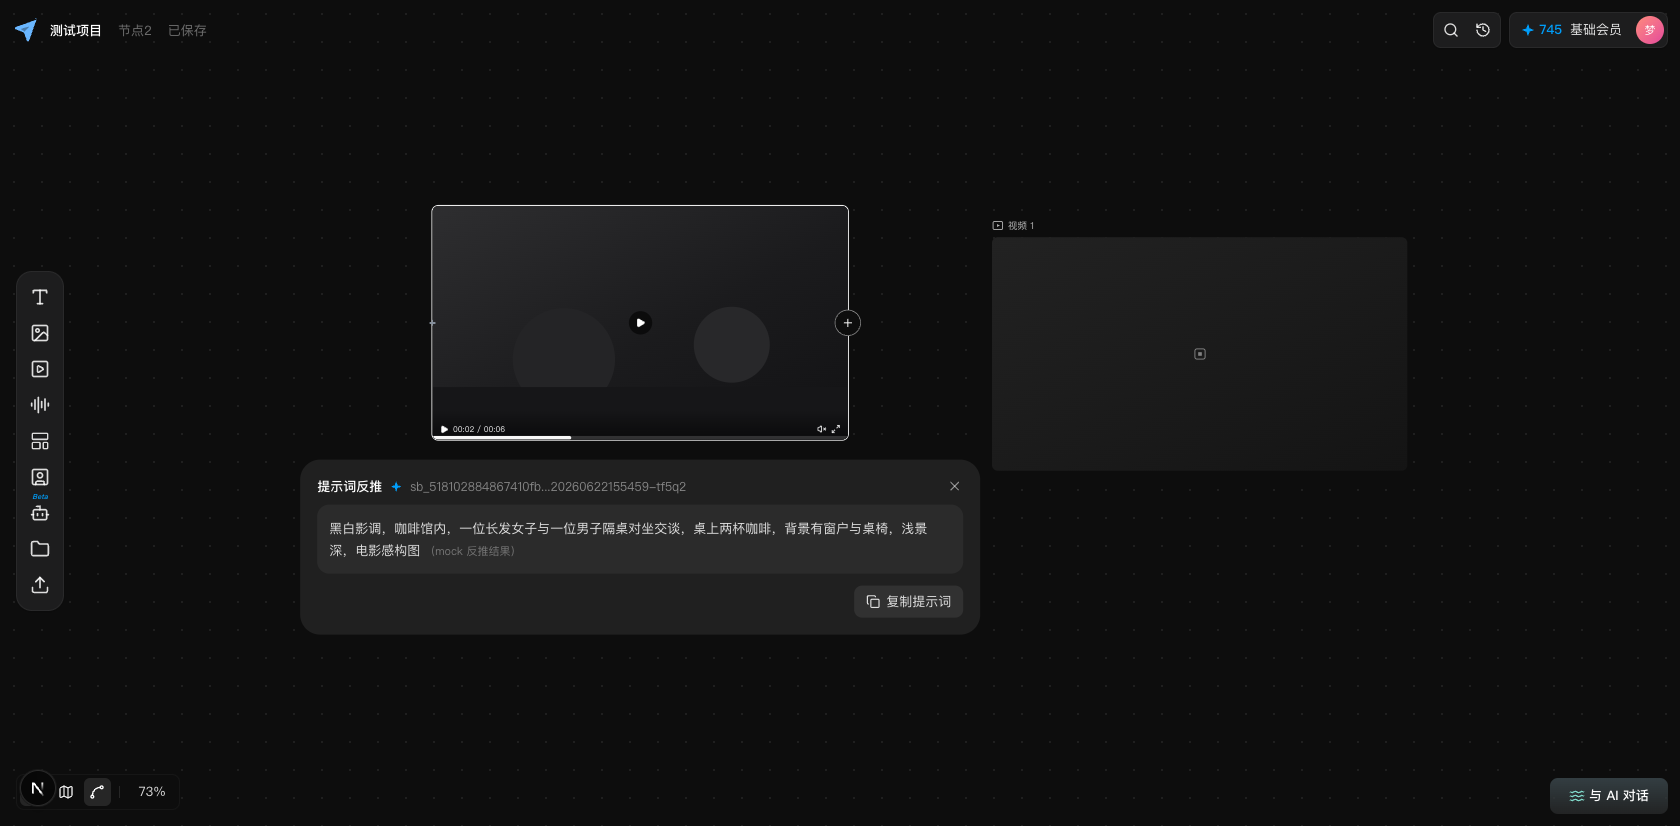
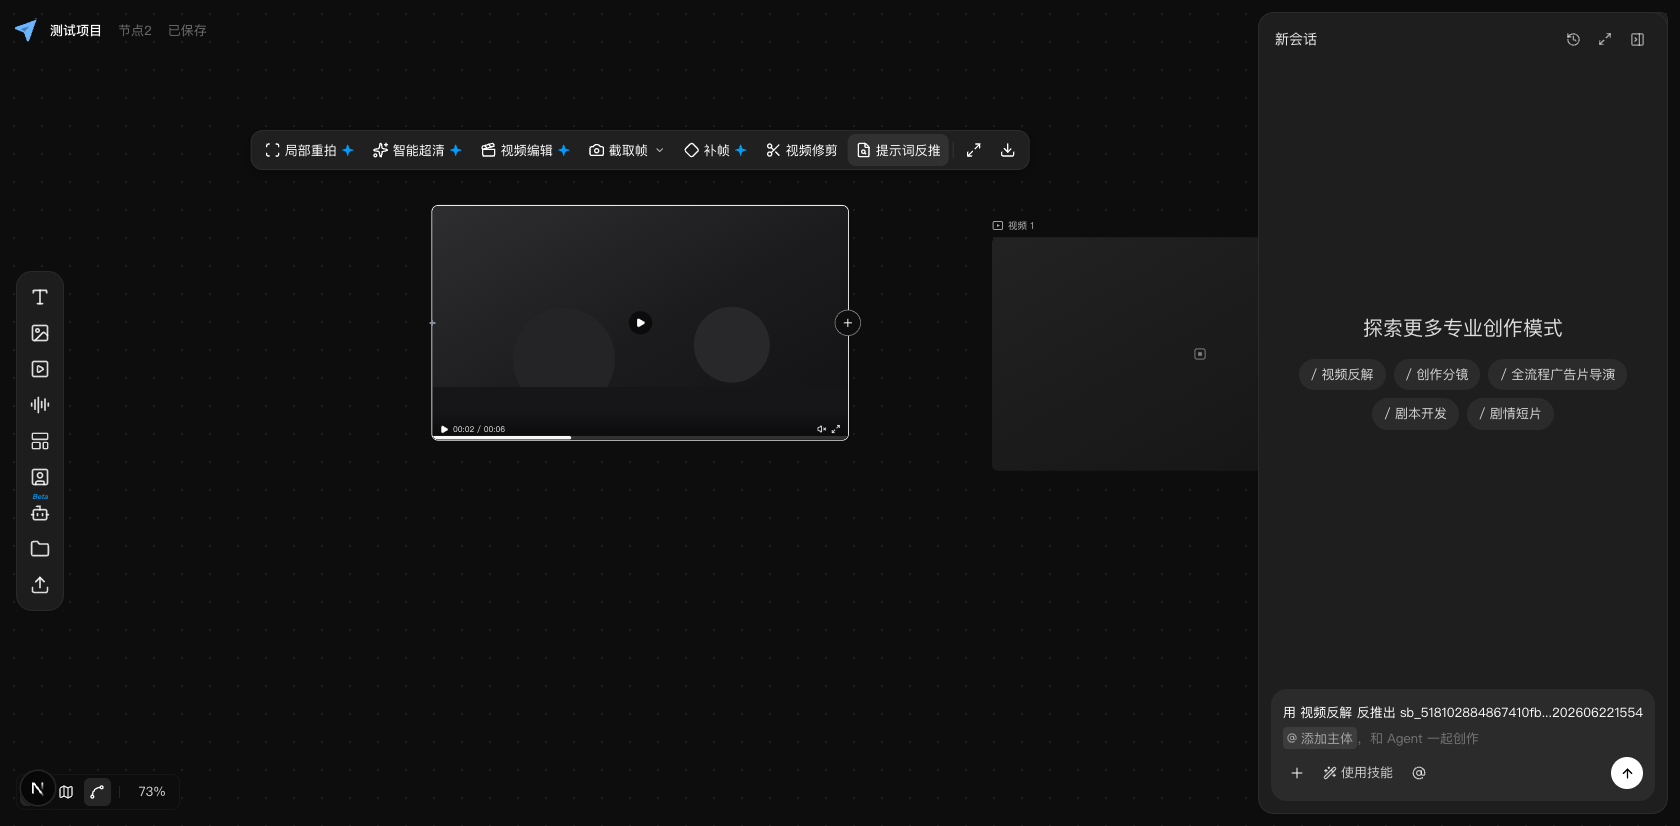
feat(jimeng): batch 216 — 提示词反推 now opens the AI drawer with a prefilled 视频反解 prompt
Fresh sampling (216-source-infer.png) shows the source behavior evolved:
no mock panel — the node zooms/pauses and the right AI drawer opens with
「用 视频反解 反推出 {title} 的提示词，并创建文本节点，方便我拉片复刻」
prefilled. Store gains aiDrawerPrefill/openAiDrawer; the drawer remounts
keyed by prefill; the video node wires 提示词反推 to enterInfer +
openAiDrawer; the old JimengInferPanel render is removed (component kept);
the workspace Escape branch closes the drawer. batch 8 rewritten to the
new contract; 8/12/30/40/97/101 regression PASS; npm run check green.

diff --git a/src/components/jimeng/nodes/JimengVideoNode.tsx b/src/components/jimeng/nodes/JimengVideoNode.tsx
@@ -9,7 +9,6 @@ import type { JimengVideoNodeData } from "@/types/jimeng";
 import { JimengNodeToolbar } from "@/components/jimeng/JimengNodeToolbar";
 import { JimengGenPanel } from "@/components/jimeng/JimengGenPanel";
 import { JimengInsertMenu } from "@/components/jimeng/JimengInsertMenu";
-import { JimengInferPanel } from "@/components/jimeng/JimengInferPanel";
 import { JimengFramePicker } from "@/components/jimeng/JimengFramePicker";
 import { JimengRepaintPanel } from "@/components/jimeng/JimengRepaintPanel";
 import { JimengTrimPanel } from "@/components/jimeng/JimengTrimPanel";
@@ -52,7 +51,7 @@ export function JimengVideoNode({ id, data, selected }: NodeProps) {
   const exitEdit = useJimengStore((s) => s.exitEdit);
   const inferNodeId = useJimengStore((s) => s.inferNodeId);
   const enterInfer = useJimengStore((s) => s.enterInfer);
-  const exitInfer = useJimengStore((s) => s.exitInfer);
+  const openAiDrawer = useJimengStore((s) => s.openAiDrawer);
   const framePickerNodeId = useJimengStore((s) => s.framePickerNodeId);
   const framePickerMode = useJimengStore((s) => s.framePickerMode);
   const enterFramePicker = useJimengStore((s) => s.enterFramePicker);
@@ -79,7 +78,6 @@ export function JimengVideoNode({ id, data, selected }: NodeProps) {
     s.nodes.find((n) => n.id === id)?.groupId,
   );
   const tickPlay = useJimengStore((s) => s.tickPlay);
-  const updateNodeData = useJimengStore((s) => s.updateNodeData);
   const pushToast = useJimengStore((s) => s.pushToast);
   const applyTrim = useJimengStore((s) => s.applyTrim);
   const previewNodeId = useJimengStore((s) => s.previewNodeId);
@@ -122,8 +120,6 @@ export function JimengVideoNode({ id, data, selected }: NodeProps) {
         />
       ) : d.hasMedia && editMode ? (
         <JimengVideoEditMode onSubmit={() => exitEdit()} />
-      ) : d.hasMedia && inferMode ? (
-        <JimengInferPanel visible data={d} onClose={() => exitInfer()} />
       ) : d.hasMedia && pickerMode ? (
         <JimengFramePicker
           visible
@@ -151,7 +147,14 @@ export function JimengVideoNode({ id, data, selected }: NodeProps) {
           onAction={(label) => {
             if (label === "局部重拍") enterRepaint(id);
             if (label === "视频编辑") enterEdit(id);
-            if (label === "提示词反推") enterInfer(id);
+            // 批 216 SOURCE_FACT: 提示词反推 → 节点放大暂停 + 打开 AI 抽屉
+            // 并预填 视频反解 提示词 (原 mock 反推面板已被该流程取代)
+            if (label === "提示词反推") {
+              enterInfer(id);
+              openAiDrawer(
+                `用 视频反解 反推出 ${d.title} 的提示词，并创建文本节点，方便我拉片复刻`,
+              );
+            }
             if (label === "视频修剪") enterTrim(id);
             if (label === "智能超清") startTask(id, "upscale");
             if (label === "补帧") startTask(id, "interpolate");

diff --git a/src/components/jimeng/JimengWorkspace.tsx b/src/components/jimeng/JimengWorkspace.tsx
@@ -62,6 +62,8 @@ function JimengFlow() {
   const onNodesChange = useJimengStore((s) => s.onNodesChange);
   const onEdgesChange = useJimengStore((s) => s.onEdgesChange);
   const selectNode = useJimengStore((s) => s.selectNode);
+  const aiDrawerOpen = useJimengStore((s) => s.aiDrawerOpen);
+  const setAiDrawerOpen = useJimengStore((s) => s.setAiDrawerOpen);
   const setZoomPercent = useJimengStore((s) => s.setZoomPercent);
   const { fitView, zoomIn, zoomOut, getViewport, setViewport, screenToFlowPosition } =
     useReactFlow();
@@ -242,6 +244,9 @@ function JimengFlow() {
         e.preventDefault();
         selectAll();
       } else if (e.key === "Escape") {
+        if (aiDrawerOpen) {
+          setAiDrawerOpen(false);
+        }
         selectNode(null);
         exitRepaint();
         exitEdit();
@@ -414,6 +419,7 @@ function JimengFlow() {
 export function JimengWorkspace() {
   const aiDrawerOpen = useJimengStore((s) => s.aiDrawerOpen);
   const setAiDrawerOpen = useJimengStore((s) => s.setAiDrawerOpen);
+  const aiDrawerPrefill = useJimengStore((s) => s.aiDrawerPrefill);
 
   // chrome 组件 (底栏缩放菜单) 需要 useReactFlow，整体包在 Provider 内
   return (
@@ -425,7 +431,10 @@ export function JimengWorkspace() {
         <JimengBottomDock />
         {aiDrawerOpen ? null : <JimengAiButton />}
         {aiDrawerOpen ? (
-          <JimengAiDrawer onClose={() => setAiDrawerOpen(false)} />
+          <JimengAiDrawer
+            key={aiDrawerPrefill ?? "drawer"}
+            onClose={() => setAiDrawerOpen(false)}
+          />
         ) : null}
       </div>
     </ReactFlowProvider>

diff --git a/src/store/jimengStore.ts b/src/store/jimengStore.ts
@@ -99,6 +99,9 @@ export interface JimengCanvasState {
   /** 「与 AI 对话」右侧抽屉 (Batch 12) */
   aiDrawerOpen: boolean;
   setAiDrawerOpen: (open: boolean) => void;
+  /** 批 216: 打开抽屉时的预填提示词 (提示词反推 → 视频反解流程) */
+  aiDrawerPrefill: string | null;
+  openAiDrawer: (prefill?: string) => void;
   /** 资产库模态框 (Batch 72, SOURCE_FACT 左栏 资产库 点击打开) */
   assetsOpen: boolean;
   setAssetsOpen: (open: boolean) => void;
@@ -752,7 +755,15 @@ export const useJimengStore = create<JimengCanvasState>((set) => ({
 
   aiDrawerOpen: false,
 
-  setAiDrawerOpen: (open) => set({ aiDrawerOpen: open }),
+  aiDrawerPrefill: null,
+
+  setAiDrawerOpen: (open) =>
+    set((state) => ({
+      aiDrawerOpen: open,
+      aiDrawerPrefill: open ? state.aiDrawerPrefill : null,
+    })),
+
+  openAiDrawer: (prefill) => set({ aiDrawerOpen: true, aiDrawerPrefill: prefill ?? null }),
 
   assetsOpen: false,
 

diff --git a/src/components/jimeng/JimengAiDrawer.tsx b/src/components/jimeng/JimengAiDrawer.tsx
@@ -1,6 +1,7 @@
 "use client";
 
 import { useState } from "react";
+import { useJimengStore } from "@/store/jimengStore";
 import {
   ArrowUp,
   AtSign,
@@ -30,7 +31,10 @@ const SKILL_CHIPS = [
 ];
 
 export function JimengAiDrawer({ onClose }: { onClose: () => void }) {
-  const [input, setInput] = useState("");
+  // 批 216: 预填提示词 (提示词反推 → 视频反解)；由工作区以 prefill 为
+  // key 重挂载本组件带入初始值
+  const prefill = useJimengStore((s) => s.aiDrawerPrefill);
+  const [input, setInput] = useState(prefill ?? "");
 
   return (
     <aside

diff --git a/scripts/verify-jimeng-batch8.py b/scripts/verify-jimeng-batch8.py
@@ -1,9 +1,10 @@
-"""Jimeng clone batch 8 verifier — 提示词反推 mock panel.
+"""Jimeng clone batch 8 verifier — 提示词反推 → AI drawer flow (batch 216).
 
-Contract: clicking 提示词反推 in the toolbar opens a mock panel (title,
-mock inferred prompt, copy button, close ×); close button returns to the
-toolbar state; pane click also exits. Marked CLONE_DECISION — the source
-site submits a paid inference task (BLOCKED_BY_FIXTURE).
+Contract (updated per 216-source-infer.png): clicking 提示词反推 no longer
+opens a mock panel — the node zooms in and the AI drawer opens with the
+prefilled 视频反解 prompt「用 视频反解 反推出 {video title} 的提示词，并
+创建文本节点，方便我拉片复刻」. Marked CLONE_DECISION where the drawer
+mock does not submit anything.
 """
 
 import os
@@ -34,43 +35,38 @@ def main() -> None:
         node1.click(position={"x": 200, "y": 100})
         page.wait_for_timeout(700)
         page.locator(".jimeng-node-toolbar button", has_text="提示词反推").click()
-        page.wait_for_timeout(800)
+        page.wait_for_timeout(900)
 
         state = page.evaluate(
             """() => {
-                const copyBtn = [...document.querySelectorAll('button')]
-                    .find(b => b.textContent.includes('复制提示词'));
-                const panel = copyBtn
-                    ? copyBtn.closest('div[class*="rounded"]')
-                    : null;
+                const drawer = document.querySelector('aside[aria-label="AI 对话"]');
+                const input = drawer?.querySelector('input');
                 return {
-                    open: !!panel && panel.textContent.includes('mock 反推结果'),
-                    hasClose: !!document.querySelector('button[aria-label="关闭反推面板"]'),
-                    hasCopy: !!copyBtn,
+                    drawerOpen: !!drawer,
+                    prefill: input ? input.value : null,
+                    noMockPanel: ![...document.querySelectorAll('form,div')]
+                        .some(d => d.textContent.includes('mock 反推结果')),
                 };
             }"""
         )
-        if not state["open"]:
-            failures.append("infer panel did not open")
+        if not state["drawerOpen"]:
+            failures.append("AI drawer did not open on 提示词反推")
         else:
-            if not state["hasClose"]:
-                failures.append("infer panel close button missing")
-            if not state["hasCopy"]:
-                failures.append("infer panel copy button missing")
+            if not state["prefill"] or "用 视频反解 反推出" not in state["prefill"]:
+                failures.append(f"drawer prefill wrong: {state['prefill']!r}")
+            if not state["noMockPanel"]:
+                failures.append("old mock infer panel must stay removed")
         page.screenshot(
             path=str(REFERENCE_DIR / "jimeng-clone-batch8-infer-panel-1680.png")
         )
 
-        # close button exits
-        page.locator('button[aria-label="关闭反推面板"]').click()
+        page.keyboard.press("Escape")
         page.wait_for_timeout(500)
         closed = page.evaluate(
-            "() => ![...document.querySelectorAll('div')]"
-            ".some(d => d.textContent.includes('mock 反推结果')"
-            " && d.querySelector('button[aria-label=\\'复制提示词\\']'))"
+            "() => !document.querySelector('aside[aria-label=\"AI 对话\"]')"
         )
         if not closed:
-            failures.append("infer panel did not close")
+            failures.append("AI drawer did not close on Escape")
 
         ctx.close()
 
@@ -79,7 +75,7 @@ def main() -> None:
         for f in failures:
             print(" -", f)
         raise SystemExit(1)
-    print("PASS: jimeng batch 8 infer panel contract")
+    print("PASS: jimeng batch 8 infer → AI drawer contract")
 
 
 if __name__ == "__main__":

diff --git a/docs/research/jimeng-canvas/README.md b/docs/research/jimeng-canvas/README.md
@@ -665,6 +665,14 @@
   自动播放均与 batch 6 一致；两处演进——提示条左端图标由铅笔改为**回形针**，
   积分数值 120/260 → **144/312** (随配置变动的动态值)。复刻对齐
   JimengVideoEditMode；batch 6 verifier 断言同步更新，6/12 回归 PASS。
+- Batch 216 (提示词反推行为演进复刻): 源站提示词反推已不再是 mock 面板
+  (216-source-infer.png)——点击后节点放大暂停，右侧打开 AI 抽屉并预填
+  「用 视频反解 反推出 {视频标题} 的提示词，并创建文本节点，方便我拉片
+  复刻」。复刻: store 新增 aiDrawerPrefill/openAiDrawer；JimengAiDrawer
+  以 prefill 为 key 重挂载带入初始值；JimengVideoNode 提示词反推 →
+  enterInfer + openAiDrawer(预填)；JimengInferPanel 渲染移除 (组件保留)；
+  工作区 Escape 分支补抽屉关闭。batch 8 verifier 改写为新契约
+  (抽屉打开+预填+无旧面板+Escape 关闭)，8/12/30/40/97/101 回归 PASS。
 - Batch 98 (收尾): 订阅管理页与促销弹窗已关闭 (再想想/页面×)，
   画布基线保持 2 节点、缩放 100%；视口平移残留为视图状态非内容
   变化，不再扰动。截取帧下拉复探仍未展开 (维持 batch 84 判定)。
